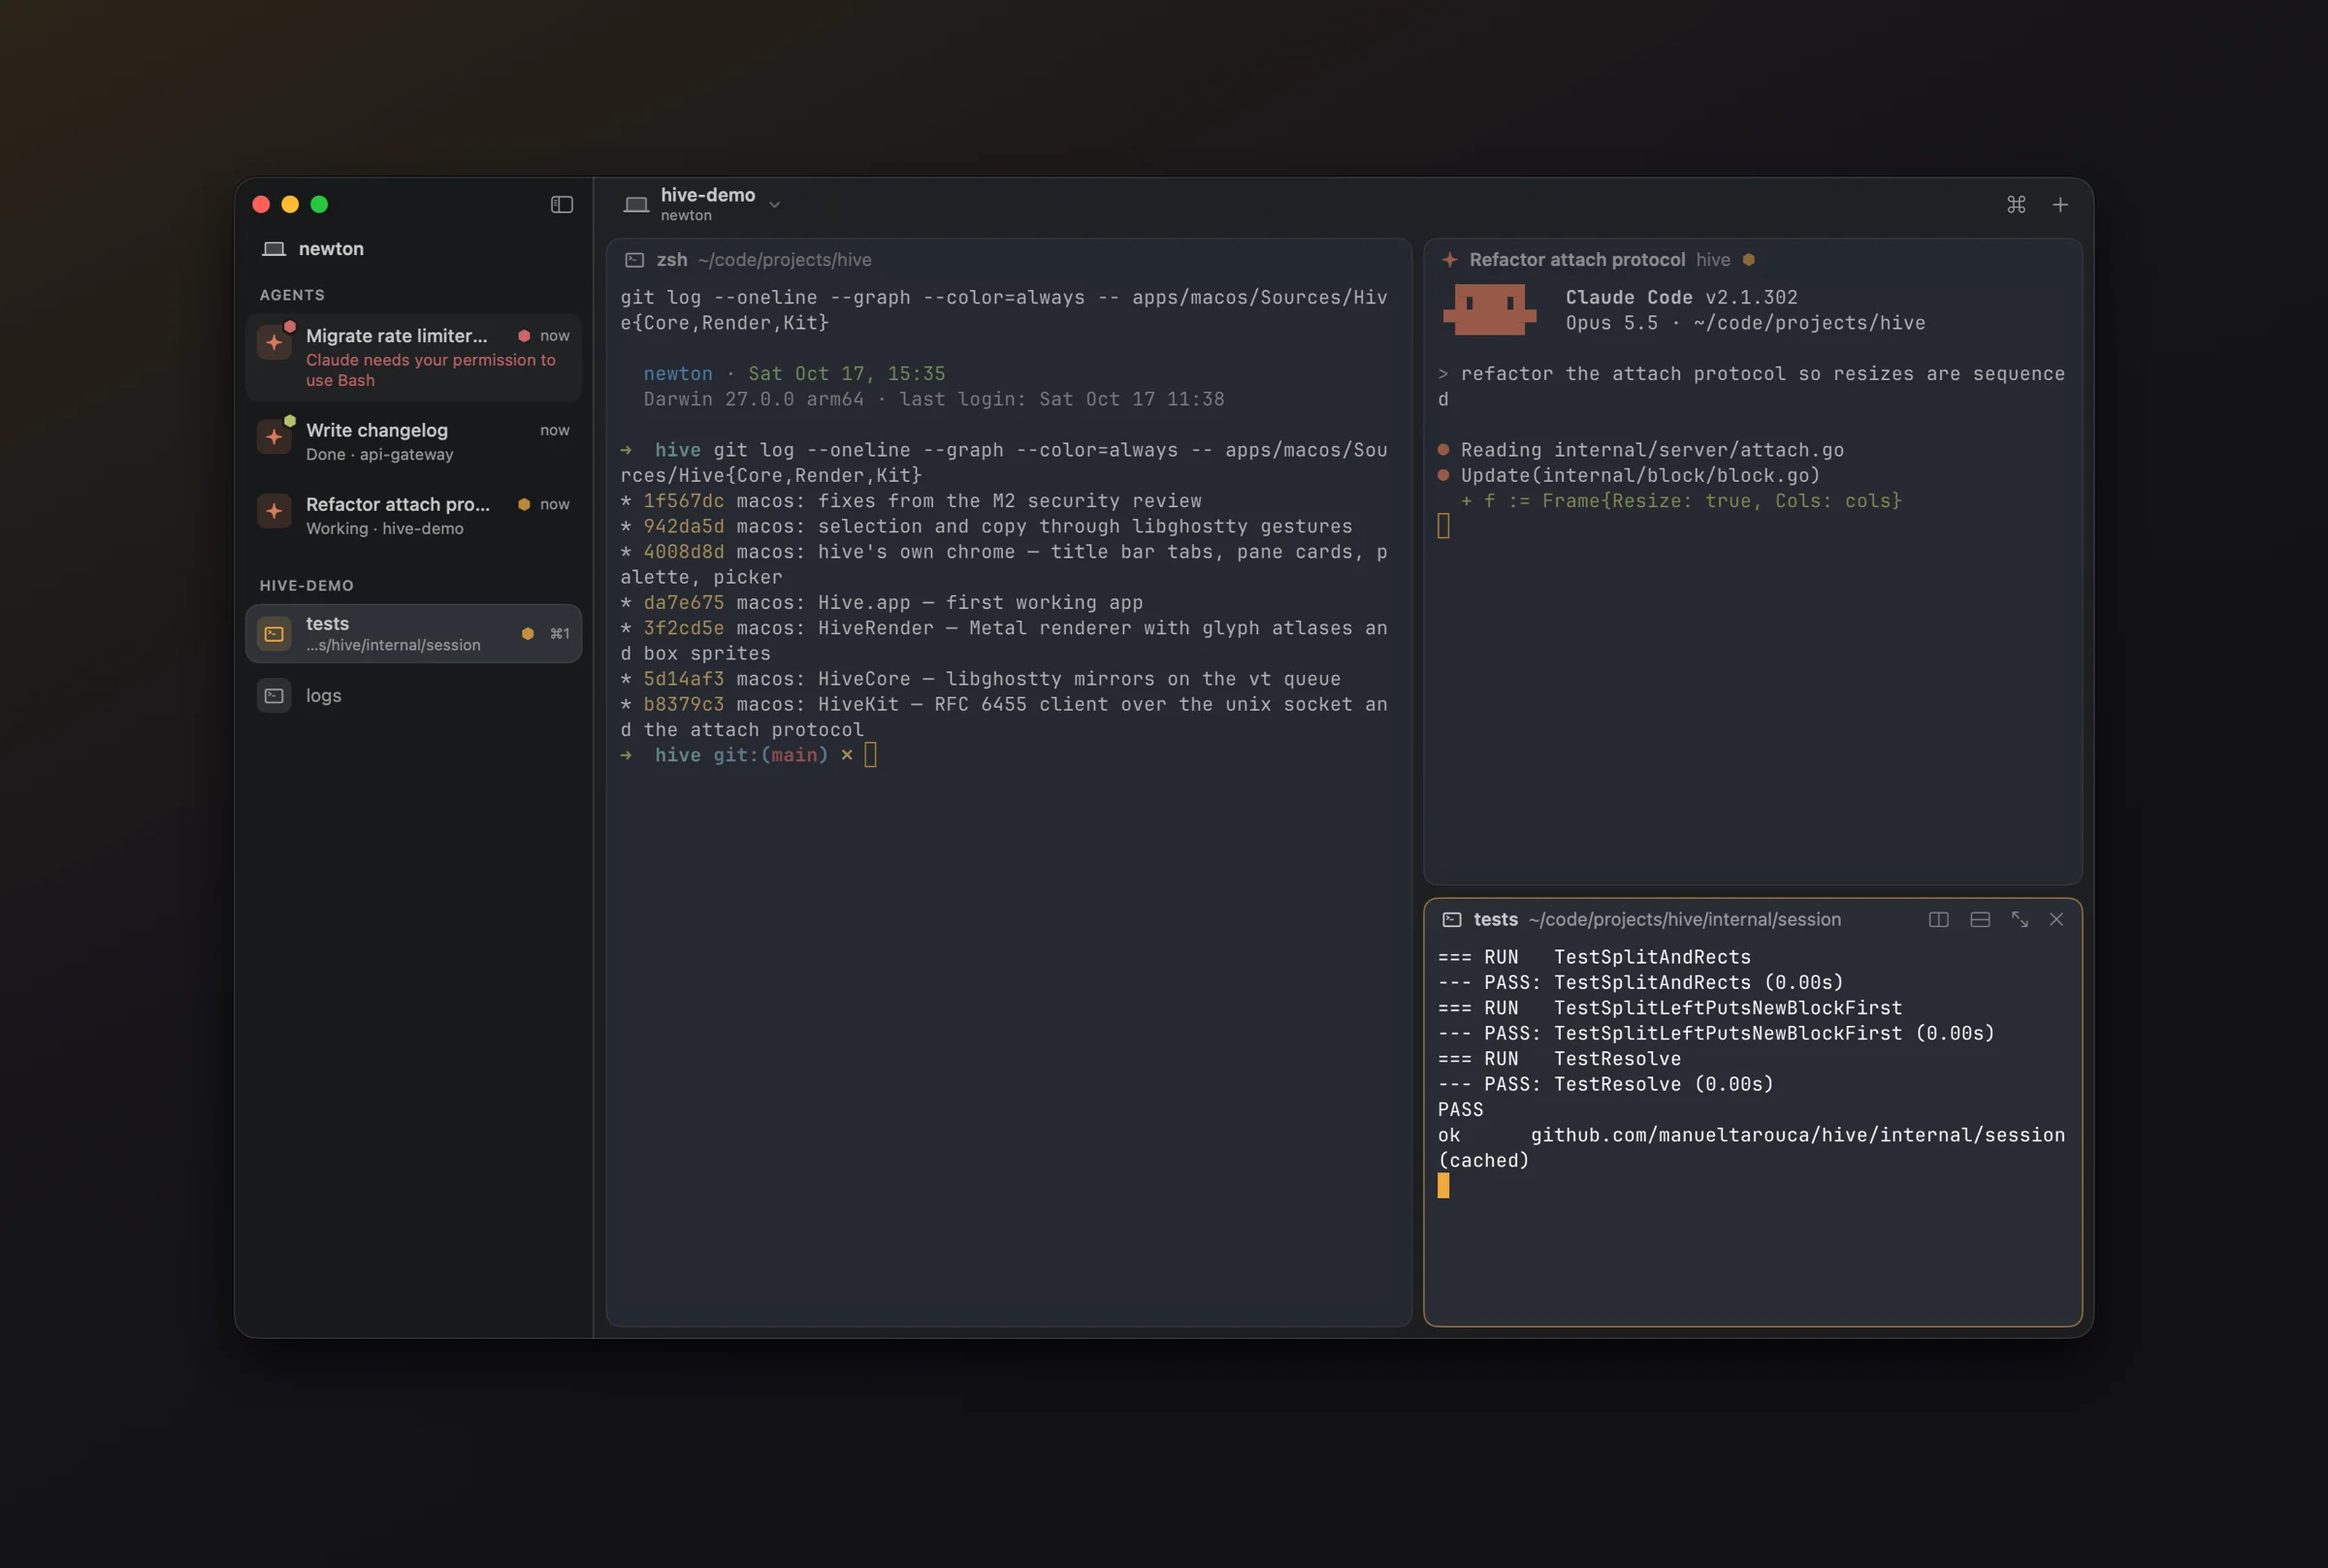
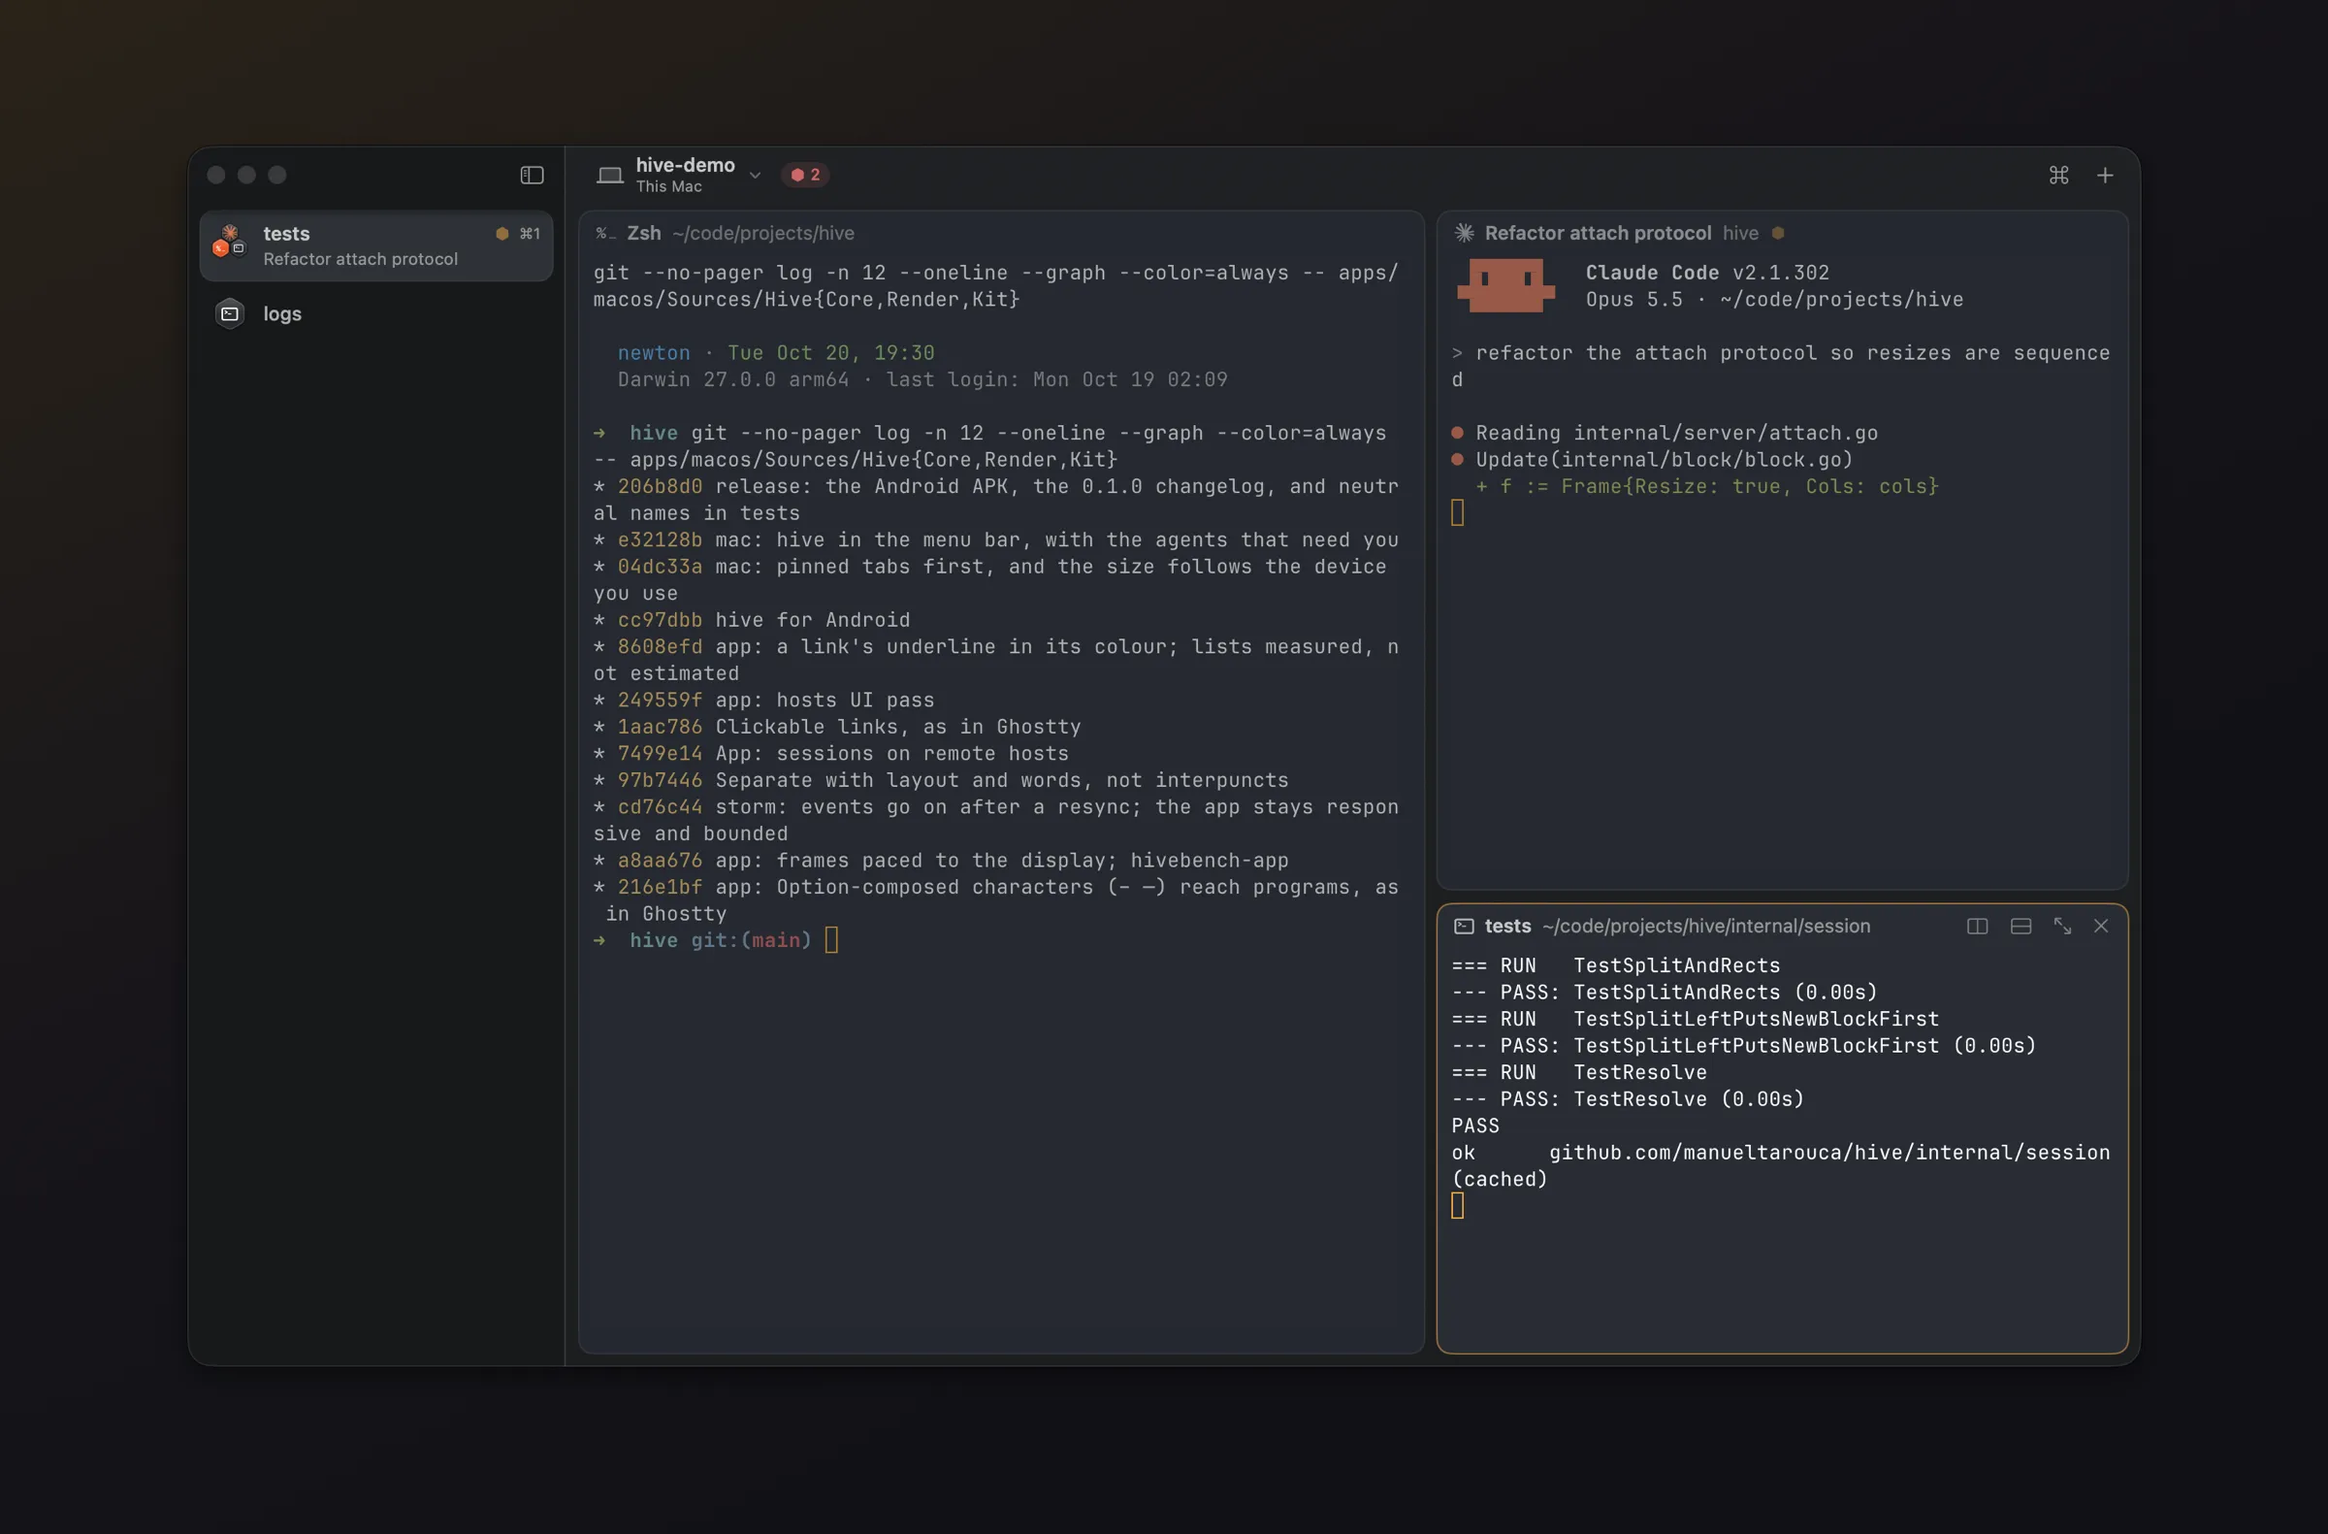
readme: a fresh hero from the current app

diff --git a/README.md b/README.md
@@ -20,7 +20,7 @@
 <p align="center">
   <picture>
     <source media="(prefers-color-scheme: dark)" srcset="site/static/img/hero-dark.webp">
-    <img alt="The hive app: an agents sidebar with one agent blocked on a permission prompt, and a session split into a shell, a Claude Code pane and a test run." src="site/static/img/hero-light.webp" width="880">
+    <img alt="The hive app: a session split into a shell, a Claude Code pane and a test run, and a badge for the two agents in other sessions that need you." src="site/static/img/hero-light.webp" width="880">
   </picture>
 </p>
 
